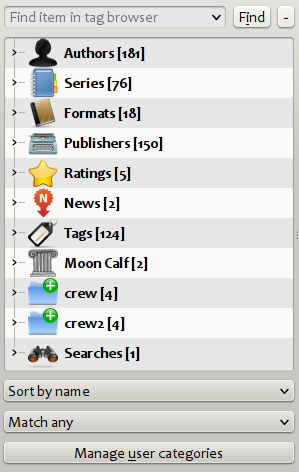
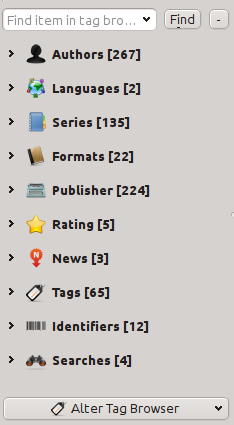
Update the GUI section of the User Manual

diff --git a/manual/gui.rst b/manual/gui.rst
@@ -472,14 +472,39 @@ will be interpreted to have the title: Foundation and Earth and author: Isaac As
 
 .. _book_details:
 
+
 Book Details
 -------------
 .. image:: images/book_details.png
-    :align: center
+   :class: float-left-img
 
-The Book Details display shows extra information and the cover for the currently selected book.
+The Book Details display shows the cover and all the metadata for the currently
+selected book. It can be hidden via the button in the lower right corner of the
+main |app| window. The author names shown in the Book Detail panel are
+clickable, they will by default take you to the Wikipedia page for the author.
+This can be customized by right clicking on the author name and selecting
+Manage this author.
 
-.. _jobs:
+Similarly, if you download metadata for the book, the Book details panel will
+automatically show you links pointing to the web pages for the book on amazon,
+worldcat, etc. from where the metadata was downloaded.
+
+You can right click on individual ebook formats in the Book Details panel to
+delete them, compare them to their original versions, save them to disk, etc.
+
+You can change the cover of the book by simply drag and dropping an
+image onto the book details panel. You can also add ebook files to the current
+book by drag and dropping the files onto the book details panel.
+
+Double clicking the book details panel will open it up in a separate popup
+window.
+
+Finally, you can customize exactly what information is displayed in the Book
+Details panel via :guilabel:`Preferences->Look & Feel->Book Details`.
+
+.. raw:: html epub
+    
+    <div style="clear:both"></div>
 
 .. _tag_browser:
 
@@ -510,12 +535,37 @@ You can drag and drop items in the Tag browser onto user categories to add them 
 
 There is a search bar at the top of the Tag Browser that allows you to easily find any item in the Tag Browser. In addition, you can right click on any item and choose one of several operations. Some examples are to hide the it, rename it, or open a "Manage x" dialog that allows you to manage items of that kind. For example, the "Manage Authors" dialog allows you to rename authors and control how their names are sorted.
 
-You can control how items are sorted in the Tag browser via the box at the bottom of the Tag Browser. You can choose to sort by name, average rating or popularity (popularity is the number of books with an item in your library; for example, the popularity of Isaac Asimov is the number of books in your library by Isaac Asimov).
+You can control how items are sorted in the Tag browser via the :guilabel:`Alter Tag Browser` button at the bottom of the Tag Browser. You can choose to sort by name, average rating or popularity (popularity is the number of books with an item in your library; for example, the popularity of Isaac Asimov is the number of books in your library by Isaac Asimov).
 
 .. raw:: html epub
     
     <div style="clear:both"></div>
 
+Cover Grid
+-----------
+
+.. image:: images/cover_grid.png
+    :align: center
+
+You can have |app| display a grid of book covers instead of a list of books, if
+you prefer to browse your collection by covers instead. The :guilabel:`Cover
+Grid` is activated by clicking the grid button in the bottom right corner of
+the main |app| window. You can customize the cover sizes and the background of
+the cover grid via :guilabel:`Preferences->Look & Feel->Cover Grid`. You can
+even have |app| display any specified field under the covers, such as title or
+authors or rating or a custom column of your own devising.
+
+Cover Browser
+---------------
+
+.. image:: images/cover_browser.png
+    :align: center
+
+In addition to the cover grid described above, you can also have |app| display
+covers in the single row. This is activated via a button in the lower right
+corner of the main window. In :guilabel:`Preferences->Look & Feel->Cover
+Browser` you can change the number of covers displayed, and even have the cover
+browser display itself in a separate popup window.
 
 Quickview
 ----------
@@ -545,6 +595,8 @@ Quickview respects the virtual library setting, showing only books in the curren
 .. raw:: html epub
     
     <div style="clear:both"></div>
+
+.. _jobs:
 
 Jobs
 -----
